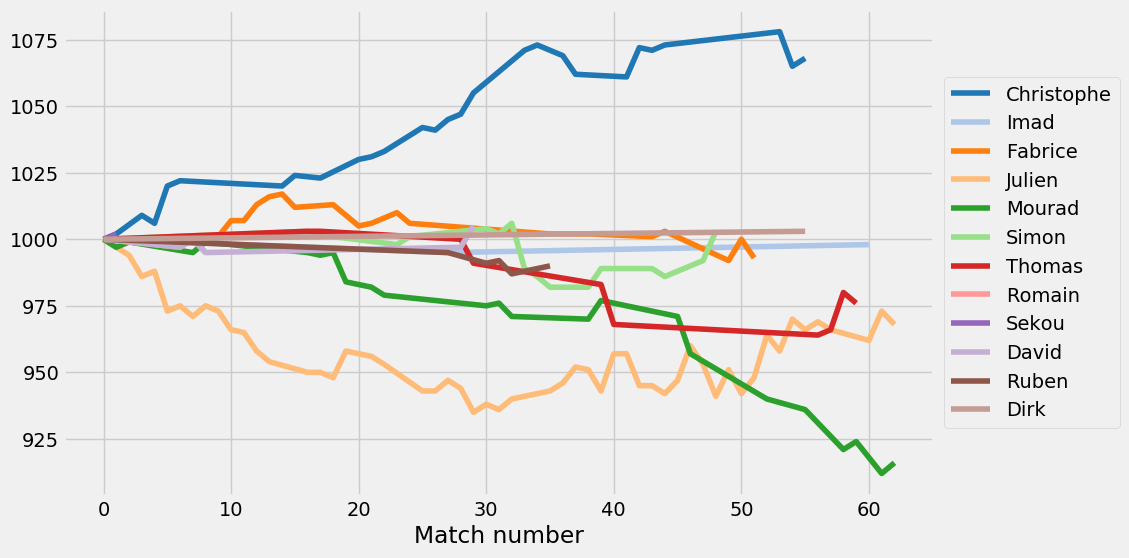
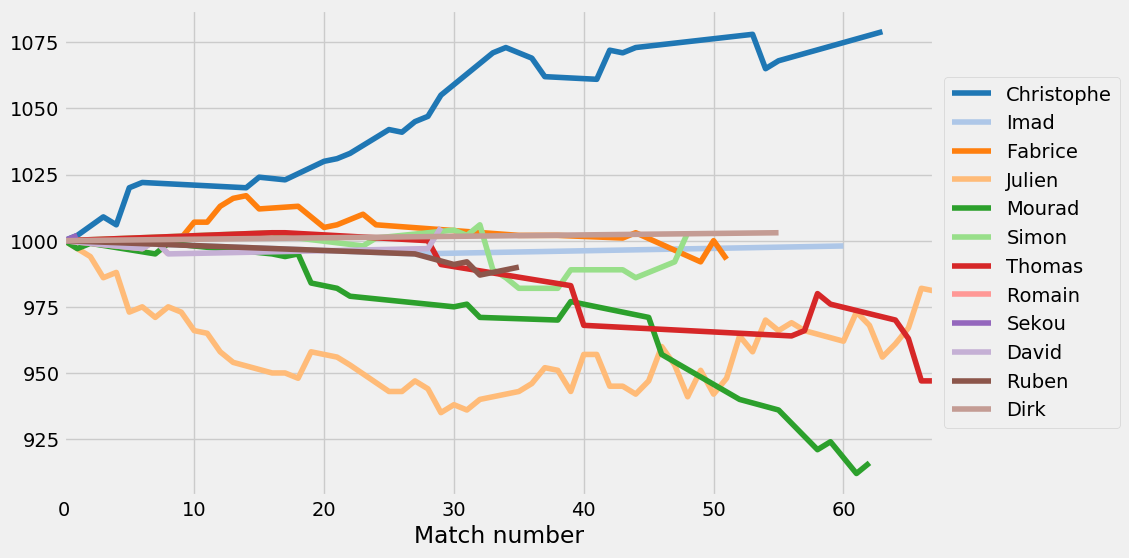
Add steepness and k-factor as parameters

diff --git a/index.html b/index.html
@@ -10,19 +10,19 @@ select {
 width: 150px;
 }
 
-td, th {
+.expected_scores td, .expected_scores th {
   border: 1px solid #ddd;
   padding: 8px;
 }
 
-th {
+.lightblue {
   background-color:lightblue;
 }
 
-.lightblue {
-  background-color:lightblue;
-  font-weight: bold;
+.bold {
+ font-weight: bold; 
 }
+
 </style>
 
 </head>
@@ -109,10 +109,21 @@ VS
   <br><br>
 </td>
 </tr>
+<tr>
+<td colspan="2">
+  K-factor: <input name="k_factor" size="20" value="5"/>
+</td>
+<td colspan="3">
+  Steepness: <input name="steepness" size="20" value="700"/>
+</td>
+<td>
+</td>
+</tr>
 </table>
+<br>
 <input type="submit" value="Submit">
 </form> 
-
+<br>
 <img id="plot" src="elos.png"/>
 <script type="text/javascript">
 

diff --git a/server.py b/server.py
@@ -88,6 +88,8 @@ class myHandler(BaseHTTPRequestHandler):
             player4 = form["player4"].value
             score1 = int(form["score1"].value)
             score2 = int(form["score2"].value)
+            steepness =  int(form["steepness"].value)
+            k_factor = int(form["k_factor"].value)
 
             players = []
             players.append(player1) if player1 != "NULL" else False
@@ -149,7 +151,6 @@ class myHandler(BaseHTTPRequestHandler):
                 }
                 df_elos.loc[len(df_elos)]=new_elo_entry
 
-            scale = 700
             # Rating based on https://math.stackexchange.com/questions/838809/rating-system-for-2-vs-2-2-vs-1-and-1-vs-1-game
             for score_row in df_scores.itertuples():
                 players = []
@@ -173,15 +174,15 @@ class myHandler(BaseHTTPRequestHandler):
                 actual_score = scores[0] / (scores[0] + scores[1])
 
                 if len(players) == 2:
-                    expected_score = 1 / (1 + 10**((elos[1] - elos[0])/scale))
-                    updated_elos.append(elos[0] + 5 * max(scores) * (actual_score - expected_score))
-                    updated_elos.append(elos[1] + 5 * max(scores) * (expected_score - actual_score)) 
+                    expected_score = 1 / (1 + 10**((elos[1] - elos[0]) / steepness))
+                    updated_elos.append(elos[0] + k_factor * max(scores) * (actual_score - expected_score))
+                    updated_elos.append(elos[1] + k_factor * max(scores) * (expected_score - actual_score)) 
                 else:
-                    expected_score = 1 / (1 + 10**(((((elos[2] + elos[3]) / 2) - ((elos[0] + elos[1])) / 2)) / scale))
-                    updated_elos.append(elos[0] + 2.5 * max(scores) * (actual_score - expected_score))
-                    updated_elos.append(elos[1] + 2.5 * max(scores) * (actual_score - expected_score))
-                    updated_elos.append(elos[2] + 2.5 * max(scores) * (expected_score - actual_score)) 
-                    updated_elos.append(elos[3] + 2.5 * max(scores) * (expected_score - actual_score)) 
+                    expected_score = 1 / (1 + 10**(((((elos[2] + elos[3]) / 2) - ((elos[0] + elos[1])) / 2)) / steepness))
+                    updated_elos.append(elos[0] + (k_factor / 2) * max(scores) * (actual_score - expected_score))
+                    updated_elos.append(elos[1] + (k_factor / 2) * max(scores) * (actual_score - expected_score))
+                    updated_elos.append(elos[2] + (k_factor / 2) * max(scores) * (expected_score - actual_score)) 
+                    updated_elos.append(elos[3] + (k_factor / 2) * max(scores) * (expected_score - actual_score)) 
                     
                 for player,updated_elo in zip(players,updated_elos): 
                     new_elo_entry = {
@@ -224,14 +225,14 @@ class myHandler(BaseHTTPRequestHandler):
                     }
                     df_last_elos.loc[len(df_last_elos)]=new_elo_entry
              
-            expected_scores_html = "<table><tr><th></th>"
+            expected_scores_html = '<table class="expected_scores"><tr><th></th>'
             for index,row_i in df_last_elos.iterrows():
-                expected_scores_html += "<th>" + str(row_i.player) + "</th>"
+                expected_scores_html += '<th class="lightblue">' + str(row_i.player) + "</th>"
             expected_scores_html += "</tr>"
             for index,row_i in df_last_elos.iterrows():
-                expected_scores_html += '<tr><td class="lightblue">' + str(row_i.player) + "</td>"
+                expected_scores_html += '<tr><td class="lightblue bold">' + str(row_i.player) + "</td>"
                 for index,row_j in df_last_elos.iterrows():
-                    expected_score = 1 / (1 + 10**((row_i.elo - row_j.elo)/scale))
+                    expected_score = 1 / (1 + 10**((row_i.elo - row_j.elo) / steepness))
                     if (expected_score > 0.5):
                         expected_scores_html += "<td>" + format((11*(1-expected_score))/(expected_score),".2f") + "/11</td>"
                     else:
